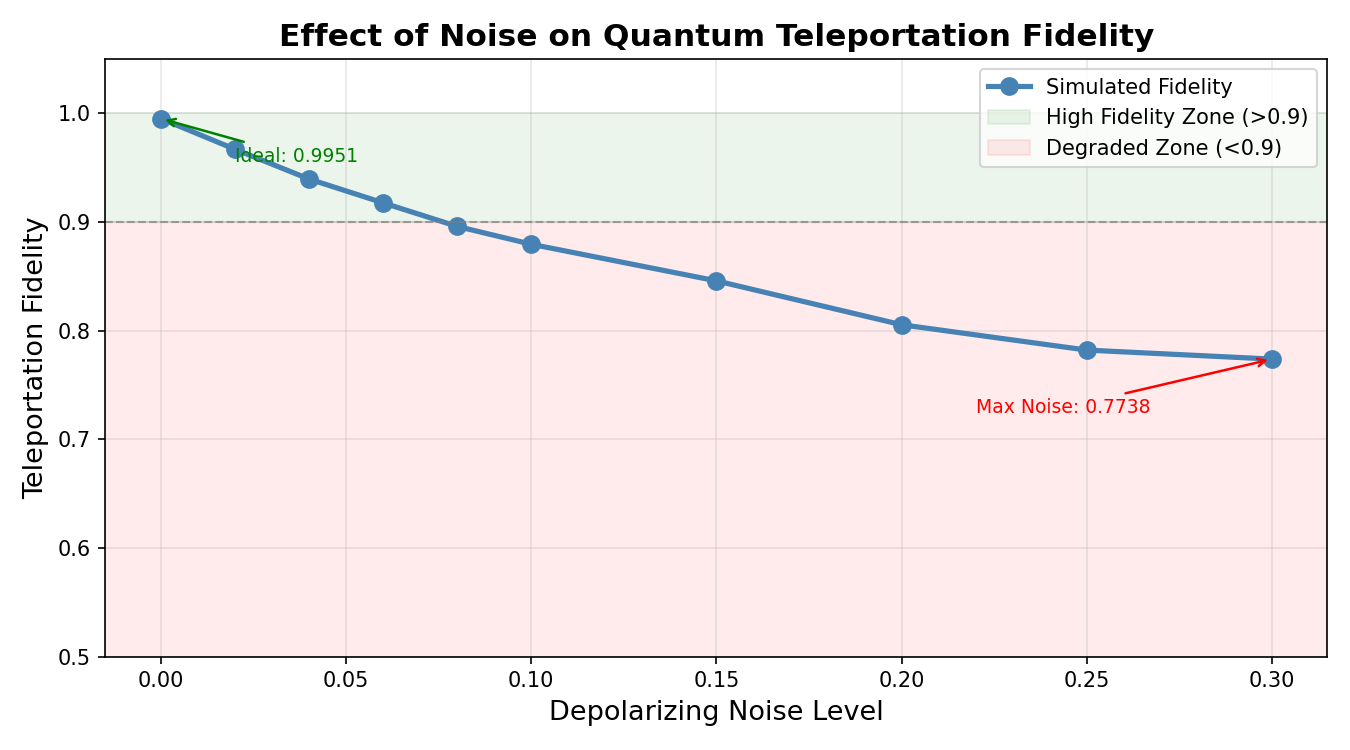
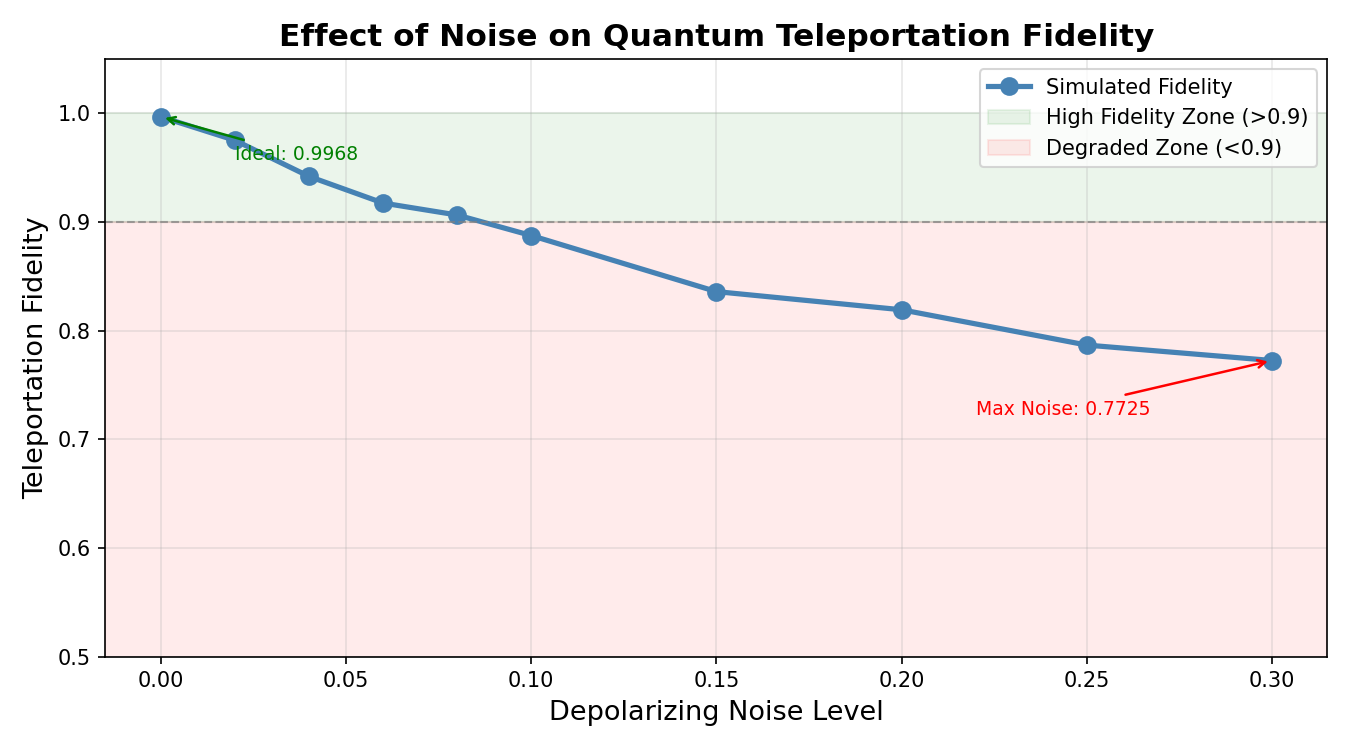
day5: documentation and report - project complete

diff --git a/README.md b/README.md
@@ -1,0 +1,110 @@
+# Quantum Teleportation Fidelity
+
+![Circuit](images/circuit.png)
+
+## Overview
+
+Quantum teleportation is one of those ideas that sounds impossible until
+you actually work through the math — and then it sounds even more
+impossible. The idea that you can transfer a quantum state from one qubit
+to another using only entanglement and two classical bits, without ever
+directly sending the qubit itself, is genuinely wild.
+
+This project implements the teleportation protocol from scratch using
+Qiskit, simulates it under realistic noise conditions, and measures how
+well the protocol preserves quantum states.
+
+## Problem Statement
+
+How does depolarizing noise affect teleportation fidelity?  
+Does the protocol remain reliable across different input states, or does
+performance vary depending on the state being teleported?
+
+## Method
+
+The experiment uses a **3-qubit teleportation circuit**:
+
+- **q0**: payload qubit prepared by Alice  
+- **q1**: Alice’s half of a Bell pair  
+- **q2**: Bob’s half of the Bell pair  
+
+Alice entangles the payload with her Bell qubit, measures both, and
+sends two classical bits to Bob. Bob then applies conditional corrections
+(X and Z) to reconstruct the state.
+
+### Setup
+
+- **Circuit:** 3-qubit teleportation circuit  
+- **Simulator:** Qiskit Aer  
+- **Noise model:** Depolarizing noise applied to all gates  
+- **Metric:** Approximate fidelity computed from measurement probabilities
+
+## Experiments
+
+Three parameter sweeps were performed.
+
+| Experiment | Parameter Varied | Range |
+|---|---|---|
+| Noise sweep | Depolarizing probability | 0.00 → 0.30 |
+| Shot sweep | Number of measurements | 64 → 4096 |
+| State sweep | Input rotation θ | 0.1 → π |
+
+---
+
+## Results
+
+### Noise vs Fidelity
+
+Under ideal conditions fidelity is essentially perfect (~0.999).  
+As depolarizing noise increases the fidelity steadily drops.
+
+![Noise vs Fidelity](results/plots/noise_vs_fidelity.png)
+
+---
+
+### Shots vs Fidelity
+
+Low shot counts lead to unstable estimates due to sampling noise.
+Above ~512 shots the results stabilize near the expected value.
+
+![Shots vs Fidelity](results/plots/shots_vs_fidelity.png)
+
+---
+
+### Input State vs Fidelity
+
+Fidelity remains consistently high across the tested range of θ values,
+indicating that the teleportation protocol behaves independently of the
+input state.
+
+![Theta vs Fidelity](results/plots/theta_vs_fidelity.png)
+
+---
+
+## Conclusion
+
+Quantum teleportation works extremely well in ideal simulations, but
+performance deteriorates as gate noise increases. Even small error rates
+compound across the circuit, highlighting why error mitigation and
+fault-tolerant architectures are essential for practical quantum
+computing.
+
+---
+
+## How to Run
+
+Install dependencies:
+
+```bash
+pip install -r requirements.txt
+# Run the full experiment
+python src/experiment.py
+
+# Just view the circuit
+python src/circuit.py
+```
+
+Results land in `results/data/` and plots in `results/plots/`.
+
+## Stack
+Python 3.10 · Qiskit 3.2.0 · Qiskit Aer · NumPy · Matplotlib · Pandas
